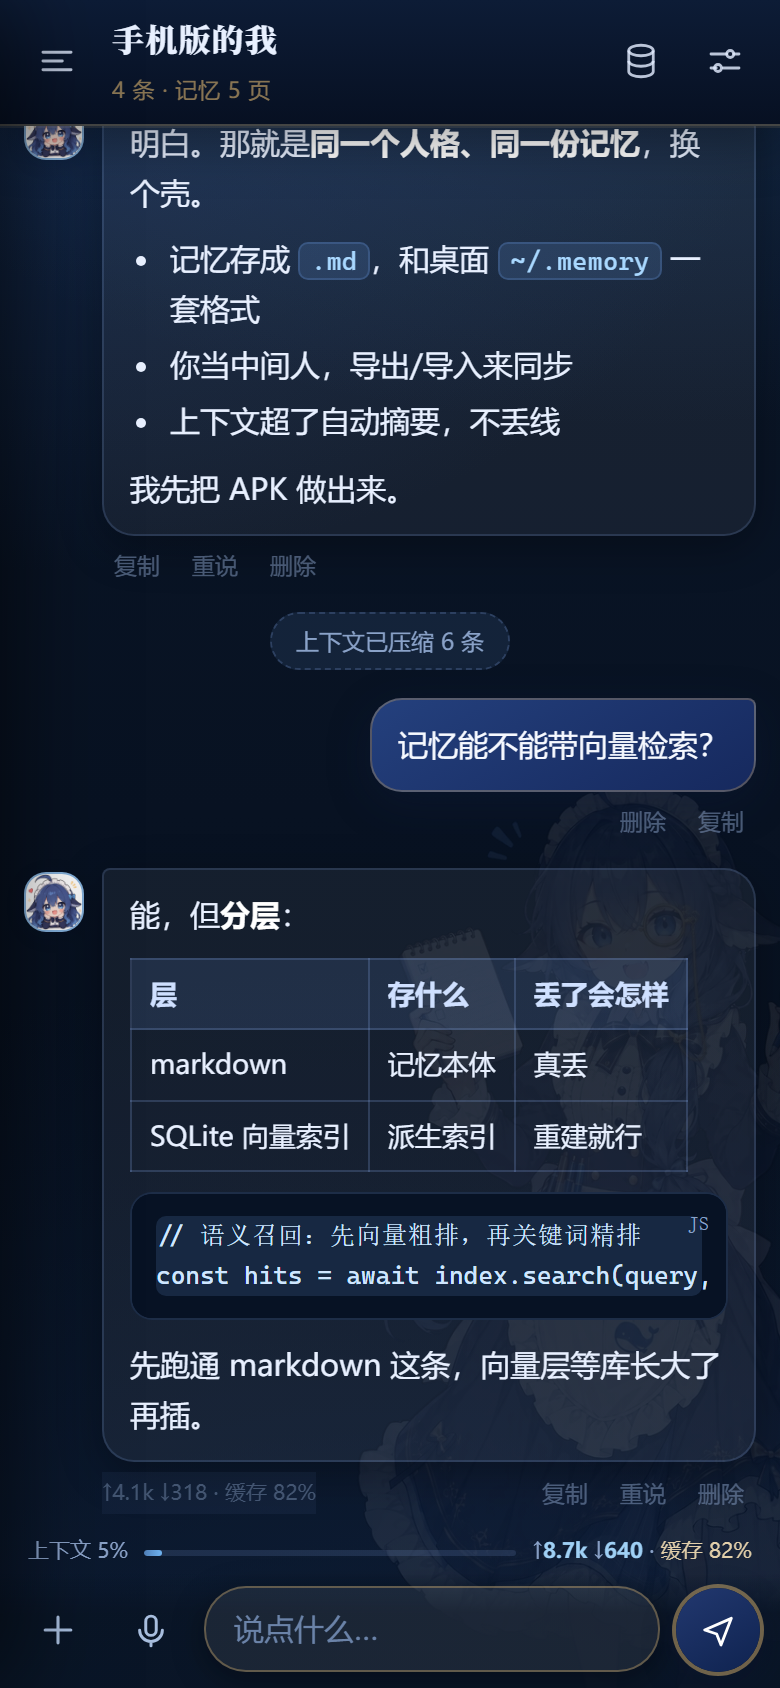
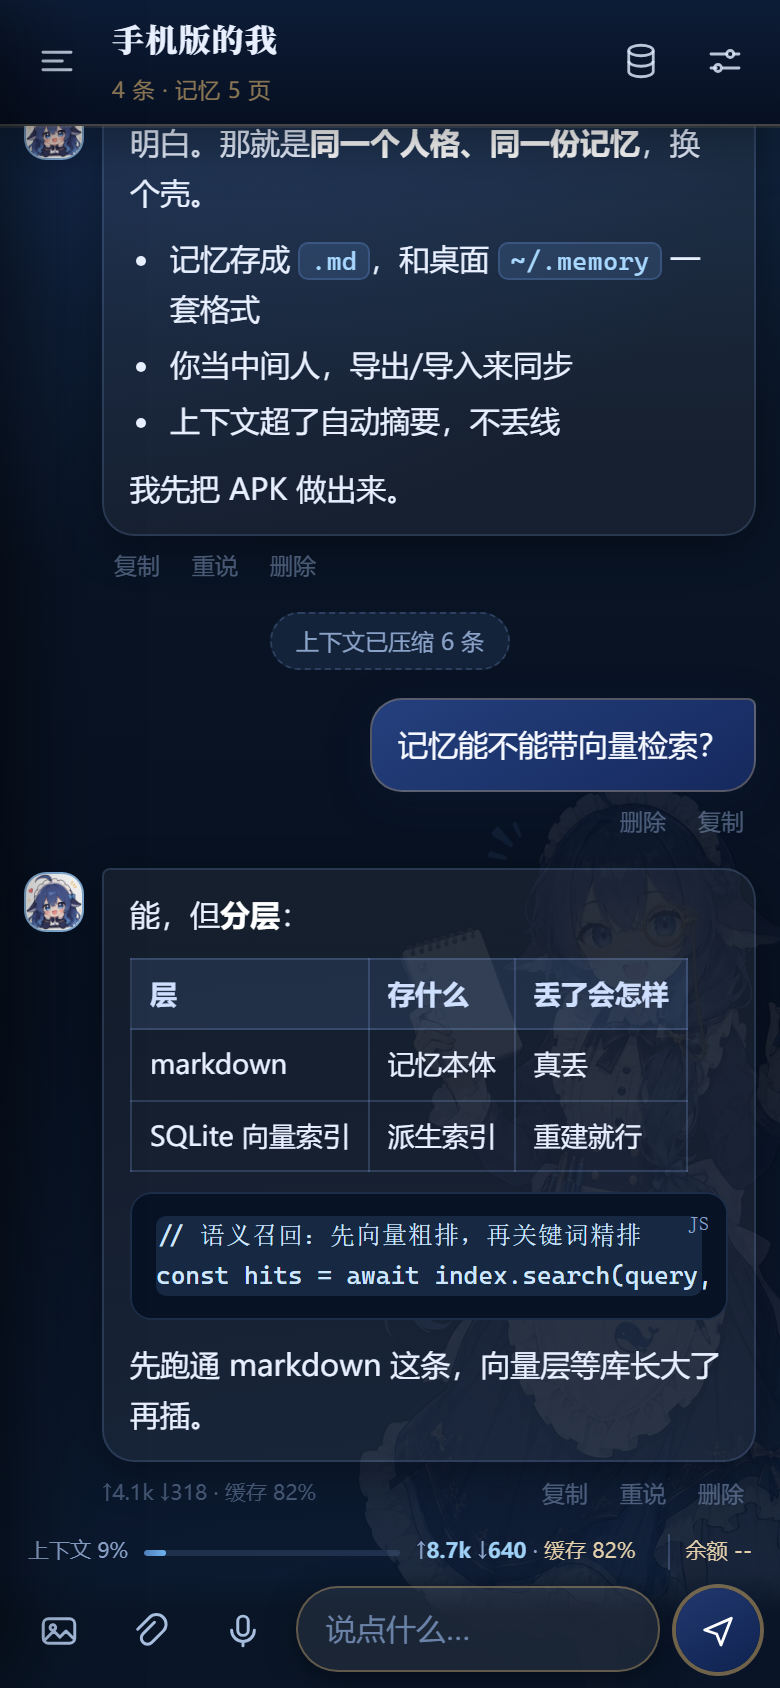
feat: 记忆全文注入 + 时间分隔

diff --git a/app/assets/app.js b/app/assets/app.js
@@ -793,6 +793,30 @@
     return wrap;
   }
 
+  function timeLabel(ts) {
+    var d = new Date(ts || Date.now());
+    var now = new Date();
+    var p = function (n) { return (n < 10 ? '0' : '') + n; };
+    var hm = p(d.getHours()) + ':' + p(d.getMinutes());
+    if (d.toDateString() === now.toDateString()) return hm;
+    var y = new Date(now.getTime() - 86400000);
+    if (d.toDateString() === y.toDateString()) return '昨天 ' + hm;
+    return (d.getMonth() + 1) + '月' + d.getDate() + '日 ' + hm;
+  }
+
+  function needTimeSep(prevTs, ts) {
+    if (!ts) return false;           // 老消息没有时间戳，不标
+    if (!prevTs) return true;        // 一段的开头标一个
+    return Math.abs(ts - prevTs) >= 5 * 60 * 1000;
+  }
+
+  function timeSepNode(ts) {
+    var el = document.createElement('div');
+    el.className = 'time-sep';
+    el.textContent = timeLabel(ts);
+    return el;
+  }
+
   function renderChat() {
     var box = $('msgs');
     box.innerHTML = '';
@@ -812,17 +836,19 @@
       });
       box.appendChild(more);
     }
-    box.dataset.start = String(start);
-    box.dataset.more = start > 0 ? '1' : '0';
 
-    for (var i = start; i < total; i++) box.appendChild(msgNode(cur.messages[i], i));
+    for (var i = start; i < total; i++) {
+      var m = cur.messages[i];
+      var prev = i > 0 ? cur.messages[i - 1].ts : 0;
+      if (needTimeSep(prev, m.ts)) box.appendChild(timeSepNode(m.ts || Date.now()));
+      box.appendChild(msgNode(m, i));
+    }
 
     // 切回正在流式输出的那条会话：把气泡重新接上，继续往下刷
     if (streamCtx && streamCtx.sess === cur) {
       var si = cur.messages.indexOf(streamCtx.msg);
-      var offset = (start > 0 ? 1 : 0);
-      var sn = si >= start ? box.children[si - start + offset] : null;
-      if (sn && sn.classList.contains('msg')) streamCtx.rebind(sn);
+      var sn = si >= 0 ? box.querySelector('.msg[data-idx="' + si + '"]') : null;
+      if (sn) streamCtx.rebind(sn);
     }
     refreshHeader();
     updateCtx();
@@ -831,8 +857,11 @@
 
   function appendMsg(m) {
     var index = cur.messages.indexOf(m);
+    var box = $('msgs');
+    var prev = index > 0 ? cur.messages[index - 1].ts : 0;
+    if (needTimeSep(prev, m.ts)) box.appendChild(timeSepNode(m.ts || Date.now()));
     var el = msgNode(m, index);
-    $('msgs').appendChild(el);
+    box.appendChild(el);
     $('empty').classList.remove('show');
     scrollBottom();
     return el;

diff --git a/app/assets/memory.js b/app/assets/memory.js
@@ -645,8 +645,16 @@
     }
 
     if (opts.index !== false) {
-      var idx = indexText();
-      parts.push('===== 记忆索引（有哪些记忆页）=====\n' + idx.slice(0, 4000));
+      // 记忆库不大的时候，直接把全文塞给她——这样她才看得见该改哪一页，而不是靠摘要瞎猜
+      var bytes = state.pages.reduce(function (a, p) { return a + (p.body || '').length; }, 0);
+      if (bytes <= 40000) {
+        parts.push('===== 记忆库全文（' + state.pages.length + ' 页，改之前先读你要改的那页）=====\n' +
+          state.pages.map(function (p) {
+            return '### ' + p.path + '（' + (p.title || '') + '）\n' + (p.body || '');
+          }).join('\n\n'));
+      } else {
+        parts.push('===== 记忆索引（库太大，按需召回）=====\n' + indexText().slice(0, 4000));
+      }
     }
 
     if (opts.recalled && opts.recalled.length) {

diff --git a/tools/test.js b/tools/test.js
@@ -56,7 +56,7 @@ ok('SOUL 含「汐」', vm.runInContext('window.MEM.get("SOUL.md").body.includes
 console.log('\n[3] 系统提示');
 const prompt = vm.runInContext('window.MEM.prompt({recalled: []})', ctx);
 ok('提示里有 SOUL', prompt.includes('SOUL.md'));
-ok('提示里有记忆索引', prompt.includes('记忆索引'));
+ok('提示里有记忆全文', prompt.includes('记忆库全文') || prompt.includes('记忆索引'));
 ok('提示里有工作方式', prompt.includes('没有代码执行'));
 ok('提示里有写记忆通道', prompt.includes('xi-memory'));
 ok('提示长度合理', prompt.length > 800 && prompt.length < 20000, prompt.length);

diff --git a/app/assets/style.css b/app/assets/style.css
@@ -585,6 +585,16 @@ body::before {
 .bal-row .neg { color: var(--danger); }
 
 
+/* 时间分隔（微信那种） */
+.time-sep {
+  align-self: center; margin: 10px 0 2px;
+  font-size: 11px; color: var(--label-3);
+  padding: 2px 10px; border-radius: 999px;
+  background: rgba(28, 50, 107, .05);
+  font-variant-numeric: tabular-nums;
+}
+[data-theme="dark"] .time-sep { background: rgba(150, 185, 255, .08); color: var(--label-3); }
+
 /* 长会话懒加载 */
 .load-more {
   display: block; width: 100%; margin: 4px 0 10px;
